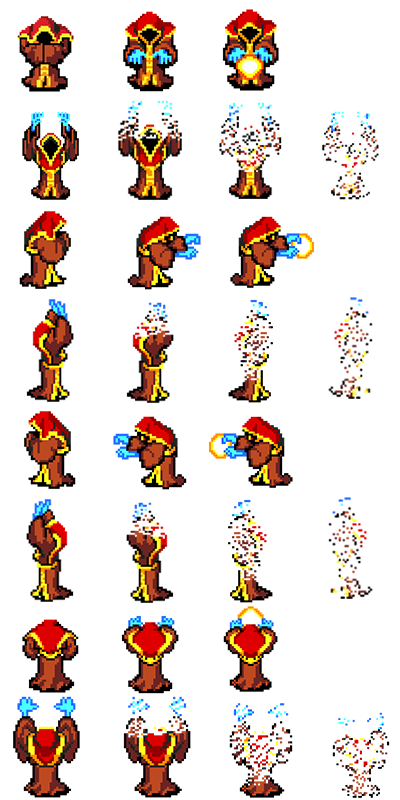
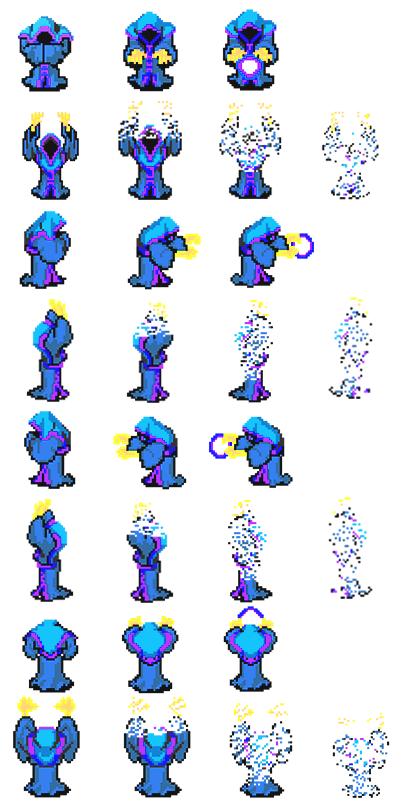
Added other sprites

diff --git a/src/renderer/render.js b/src/renderer/render.js
@@ -90,8 +90,8 @@ function update() {
 
 	for (var i = 0; i < grid.length; i++) {
 		for (var j = 0; j < grid[i].length; j++) {
-			grid[i][j].setTransform(change.x + gridSize * i, change.y + gridSize * j, gridSize/256, gridSize/256);
-			fog[i][j].setTransform(change.x + gridSize * i, change.y + gridSize * j, gridSize/256, gridSize/256);
+			grid[i][j].setTransform(change.x + gridSize * i, change.y + gridSize * j);
+			fog[i][j].setTransform(change.x + gridSize * i, change.y + gridSize * j);
 			if (!terrainVisibility[i][j]) {
 				grid[i][j].visible = false;
 				fog[i][j].visible = false;
@@ -202,27 +202,7 @@ function update() {
 				}
 			}
 			else if (actors[i].actorType === 5) {
-				if (actors[i].isAttacking) {
-					var xDiff = actors[i].attackTargetPosition.x - actors[i].x;
-					var yDiff = actors[i].attackTargetPosition.y - actors[i].y;
-					if (Math.abs(xDiff) > Math.abs(yDiff)) {
-						if (xDiff > 0 && actorSprites[i].state != 'aRight') {
-							actorSprites[i].state = 'aRight';
-							actorSprites[i].textures = actorTextures[i][2][1];
-						} else if (xDiff <= 0 && actorSprites[i].state != 'aLeft'){
-							actorSprites[i].state = 'aLeft';
-							actorSprites[i].textures = actorTextures[i][2][0];
-						}
-					} else {
-						if (yDiff > 0 && actorSprites[i].state != 'aDown') {
-							actorSprites[i].state = 'aDown';
-							actorSprites[i].textures = actorTextures[i][2][2];
-						} else if (yDiff <= 0 && actorSprites[i].state != 'aUp'){
-							actorSprites[i].state = 'aUp';
-							actorSprites[i].textures = actorTextures[i][2][3];
-						}
-					}
-				} else if (actors[i].isMoving) {
+				if (actors[i].isMoving) {
 					var xDiff = actors[i].destination.x - actors[i].x;
 					var yDiff = actors[i].destination.y - actors[i].y;
 					if (Math.abs(xDiff) > Math.abs(yDiff)) {
@@ -248,6 +228,62 @@ function update() {
 						actorSprites[i].textures = actorTextures[i][0][0];
 				}
 			}
+			else if (actors[i].actorType === 4) {
+				if (actors[i].isCarryingFlag) {
+					if (actors[i].isMoving) {
+						var xDiff = actors[i].destination.x - actors[i].x;
+						var yDiff = actors[i].destination.y - actors[i].y;
+						if (Math.abs(xDiff) > Math.abs(yDiff)) {
+							if (xDiff > 0 && actorSprites[i].state != 'mRight') {
+								actorSprites[i].state = 'mRight';
+								actorSprites[i].textures = actorTextures[i][4][1];
+							} else if (xDiff <= 0 && actorSprites[i].state != 'mLeft'){
+								actorSprites[i].state = 'mLeft';
+								actorSprites[i].textures = actorTextures[i][4][0];
+							}
+						} else {
+							if (yDiff > 0 && actorSprites[i].state != 'mDown') {
+								actorSprites[i].state = 'mDown';
+								actorSprites[i].textures = actorTextures[i][4][2];
+							} else if (yDiff <= 0 && actorSprites[i].state != 'mUp'){
+								actorSprites[i].state = 'mUp';
+								actorSprites[i].textures = actorTextures[i][4][3]
+							}
+						}
+					} else if (actorSprites[i].state != 's'){
+						actorSprites[i].state = 's';
+						if (actorTextures[i][3])
+							actorSprites[i].textures = actorTextures[i][0][0];
+					}
+				} else {
+					if (actors[i].isMoving) {
+						var xDiff = actors[i].destination.x - actors[i].x;
+						var yDiff = actors[i].destination.y - actors[i].y;
+						if (Math.abs(xDiff) > Math.abs(yDiff)) {
+							if (xDiff > 0 && actorSprites[i].state != 'mRight') {
+								actorSprites[i].state = 'mRight';
+								actorSprites[i].textures = actorTextures[i][1][1];
+							} else if (xDiff <= 0 && actorSprites[i].state != 'mLeft'){
+								actorSprites[i].state = 'mLeft';
+								actorSprites[i].textures = actorTextures[i][1][0];
+							}
+						} else {
+							if (yDiff > 0 && actorSprites[i].state != 'mDown') {
+								actorSprites[i].state = 'mDown';
+								actorSprites[i].textures = actorTextures[i][1][2];
+							} else if (yDiff <= 0 && actorSprites[i].state != 'mUp'){
+								actorSprites[i].state = 'mUp';
+								actorSprites[i].textures = actorTextures[i][1][3]
+							}
+						}
+					} else if (actorSprites[i].state != 's'){
+						actorSprites[i].state = 's';
+						if (actorTextures[i][0])
+							actorSprites[i].textures = actorTextures[i][0][0];
+					}
+				}
+			}
+
 			actorSprites[i].setTransform(actors[i].x + change.x, actors[i].y + change.y);
 
 			if (actors[i].actorType != 5 || actors[i].playerId == losState - 1 || losState === 0) {
@@ -259,6 +295,9 @@ function update() {
 					actorSprites[i].visible = true;
 				else actorSprites[i].visible = false;
 			}
+
+			if (actors[i].hp === 0) 
+				actorSprites[i].visible = false;
 		}
 	}
 	for (var i = 0; i < actorHP.length; i++) {
@@ -305,11 +344,11 @@ function update() {
 				var scale2 = 1;
 			}
 
-			towerHP[i][0].setTransform(towers[i].x + change.x - 5, towers[i].y + change.y - 12, health, 1);
-			towerHP[i][1].setTransform(towers[i].x + change.x - 5, towers[i].y + change.y - 26, scale1, 1);
-			towerHP[i][2].setTransform(towerHP[i][1].x + towerHP[i][1].width, towerHP[i][1].y, scale2, 1);
+			towerHP[i][0].setTransform(towers[i].x + change.x - 5, towers[i].y + change.y - 12, health*3, 1);
+			towerHP[i][1].setTransform(towers[i].x + change.x - 5, towers[i].y + change.y - 26, scale1*3, 1);
+			towerHP[i][2].setTransform(towerHP[i][1].x + towerHP[i][1].width, towerHP[i][1].y, scale2*3, 1);
 			towerHP[i][3].setTransform(towerHP[i][1].x + towerHP[i][1].width, towerHP[i][1].y + 3.5);
-			towerHP[i][4].setTransform(towers[i].x + change.x - 6, towers[i].y + change.y - 13);
+			towerHP[i][4].setTransform(towers[i].x + change.x - 6, towers[i].y + change.y - 13, 3, 1);
 
 			if (visibility(towers[i]) == 2) {
 				towerHP[i][0].visible = true;

diff --git a/src/renderer/state3.js b/src/renderer/state3.js
@@ -213,7 +213,7 @@ function loadTerrain() {
 			else if (terrain[i][j] === 2)
 				grid[i][j] = new PIXI.Sprite(PIXI.loader.resources.mountain.texture);
 
-			grid[i][j].setTransform(gridSize * i, gridSize * j, gridSize/256, gridSize/256); // 256 is the image's size.
+			grid[i][j].setTransform(gridSize * i, gridSize * j, gridSize/200, gridSize/200); // 256 is the image's size.
 			stage.addChild(grid[i][j]);
 		}
 	}
@@ -230,7 +230,7 @@ function loadFog() {
 		fog[i] = [];
 		for (var j = 0; j < terrain[i].length; j++) {
 			fog[i][j] = new PIXI.Sprite(PIXI.loader.resources.fog.texture);
-			fog[i][j].setTransform(gridSize * i, gridSize * j, 0.8, 0.8);
+			fog[i][j].setTransform(gridSize * i, gridSize * j);
 			stage.addChild(fog[i][j]);
 		}
 	}
@@ -325,7 +325,6 @@ function loadActors() {
 
 			actorTextures[i][0] = [];
 			actorTextures[i][1] = [];
-			actorTextures[i][2] = [];
 			actorTextures[i][3] = [];
 
 			for (var j = 0; j < 4; j++) {
@@ -357,7 +356,70 @@ function loadActors() {
 			// actorSprites[i] = new PIXI.Sprite(PIXI.loader.resources.scout.texture);
 		}
 		else if (actors[i].actorType == 4) {
-			actorSprites[i] = new PIXI.Sprite(PIXI.loader.resources.king.texture);
+			if (actors[i].playerId === 0) {
+				var base1 = PIXI.loader.resources.king1.texture;
+				var base2 = PIXI.loader.resources.kingFlag1.texture;
+			} else {
+				var base1 = PIXI.loader.resources.king2.texture;
+				var base2 = PIXI.loader.resources.king2.texture;
+			}
+
+			actorTextures[i][0] = [];
+			actorTextures[i][1] = [];
+			actorTextures[i][2] = [];
+			actorTextures[i][3] = [];
+			actorTextures[i][4] = [];
+			actorTextures[i][5] = [];
+
+			for (var j = 0; j < 4; j++) {
+				var frameTexture = new PIXI.Texture(base1);
+				frameTexture.frame = new PIXI.Rectangle(94*j, 0, 90, 95);
+				actorTextures[i][0][j] = [frameTexture, frameTexture];
+			}
+			for (var j = 0; j < 4; j++) {
+				var frameTexture = new PIXI.Texture(base2);
+				frameTexture.frame = new PIXI.Rectangle(94*j, 0, 85, 95);
+				actorTextures[i][3][j] = [frameTexture, frameTexture];
+			}
+			for (var j = 0; j < 4; j++) {
+				actorTextures[i][1][j] = [];
+				for (var k = 0; k < 3; k++) {
+					var frameTexture = new PIXI.Texture(base1);
+					frameTexture.frame = new PIXI.Rectangle(94*k, 85 + 197*j, 85, 95);
+					actorTextures[i][1][j][k] = frameTexture;
+				}
+			}
+			for (var j = 0; j < 4; j++) {
+				actorTextures[i][4][j] = [];
+				for (var k = 0; k < 3; k++) {
+					var frameTexture = new PIXI.Texture(base2);
+					frameTexture.frame = new PIXI.Rectangle(94*k, 85 + 197*j, 85, 95);
+					actorTextures[i][4][j][k] = frameTexture;
+				}
+			}
+			for (var j = 0; j < 4; j++) {
+				actorTextures[i][2][j] = [];
+				for (var k = 0; k < 3; k++) {
+					var frameTexture = new PIXI.Texture(base1);
+					frameTexture.frame = new PIXI.Rectangle(94*k, 197*(j+1), 85, 95);
+					actorTextures[i][2][j][k] = frameTexture;
+				} //speed = 0.3
+			}
+			for (var j = 0; j < 4; j++) {
+				actorTextures[i][5][j] = [];
+				for (var k = 0; k < 3; k++) {
+					var frameTexture = new PIXI.Texture(base2);
+					frameTexture.frame = new PIXI.Rectangle(94*k, 197*(j+1), 85, 95);
+					actorTextures[i][5][j][k] = frameTexture;
+				} //speed = 0.3
+			}
+			actorSprites[i] = new PIXI.extras.AnimatedSprite(actorTextures[i][0][0]);
+			actorSprites[i].animationSpeed = 0.10;
+			actorSprites[i].play();
+			actorSprites[i].state = 's';
+
+
+			// actorSprites[i] = new PIXI.Sprite(PIXI.loader.resources.king.texture);
 		}
 
 		actorSprites[i].setTransform(actors[i].x, actors[i].y);
@@ -435,7 +497,9 @@ function loadFireBalls() {
 	}
 
 	for (var i = 0; i < fireBalls.length; i++) {
-		fireBallSprites[i] = new PIXI.Sprite(PIXI.loader.resources.fireBall.texture);
+		if (fireBalls[i].playerId === 0)
+			fireBallSprites[i] = new PIXI.Sprite(PIXI.loader.resources.fireBall1.texture);
+		else fireBallSprites[i] = new PIXI.Sprite(PIXI.loader.resources.fireBall2.texture);
 
 		fireBallSprites[i].setTransform(fireBalls[i].x, fireBalls[i].y, 1, 1, fireBalls[i].rotation);
 		stage.addChild(fireBallSprites[i]);

diff --git a/src/renderer/rendererInit.js b/src/renderer/rendererInit.js
@@ -25,7 +25,7 @@ canvas.addEventListener("wheel", function(e) {
 });
 
 PIXI.loader
-	.add("menu", "./assets/menu.jpg")
+	.add("menu", "./assets/splash.png")
 	// **THE FOLLOWING TEXTURES ARE PART OF THE TEST STORY TO BE REMOVED LATER.**
 	.add("./assets/story/1.jpg")
 	.add("./assets/story/2.jpg")
@@ -42,9 +42,9 @@ PIXI.loader
 	.add("./assets/story/13.jpg")
 	.add("./assets/story/14.jpg")
 	// **..**
-	.add("forest", "./assets/forest.jpg")
-	.add("plain", "./assets/plains.jpg")
-	.add("mountain", "./assets/mountain.jpg")
+	.add("forest", "./assets/forest.png")
+	.add("plain", "./assets/Plain.png")
+	.add("mountain", "./assets/Mountains.png")
 	.add("fog", "./assets/fog.png")
 	.add("base", "./assets/base.png")
 	// .add("sword", "./assets/swordsman.png")
@@ -54,19 +54,22 @@ PIXI.loader
 	.add("wizard2", "./assets/wizard_player_2.png")
 	.add("scout1", "./assets/cavalry player 1.png")
 	.add("scout2", "./assets/cavalry player 2.png")
+	.add("king1", "./assets/king player 1.png")
+	.add("king2", "./assets/king player 2.png")
+	.add("kingFlag1", "./assets/king_with flag_player1.png")
+	.add("kingFlag2", "./assets/king_with flag_player2.png")
 	// .add("attack", "./assets/attack.png")
 	// .add("magician", "./assets/magician.png")
 	// .add("scout", "./assets/scout.png")
 	.add("king", "./assets/king.png")
-	.add("tower0", "./assets/tower0.png")
-	.add("tower1", "./assets/tower1.png")
-	.add("tower2", "./assets/tower2.png")
-	.add("flag1", "./assets/flag1.png")
-	.add("flag2", "./assets/flag2.png")
-	.add("fireBall", "./assets/fireBall.png")
+	.add("tower1", "./assets/tower_player1.png")
+	.add("tower2", "./assets/tower_player2.png")
+	.add("flag1", "./assets/flag_p1.png")
+	.add("flag2", "./assets/flag_p2.png")
+	.add("fireBall1", "./assets/ball_p1.png")
+	.add("fireBall2", "./assets/ball_p2.png")
 	.add("hp", "./assets/hp.jpg")
 	.add("border", "./assets/border.png")
 	.add("captureP1", "./assets/capture_p1.jpg")
 	.add("captureP2", "./assets/capture_p2.jpg")
-	.add("running", "./assets/running.png") // FOR TESTING ONLY. There will be no 'running' asset in the final version.
 	.load(setup);

diff --git a/src/renderer.css b/src/renderer.css
@@ -45,7 +45,6 @@ div.menu-button {
   position: fixed;
   width: 10%;
   box-shadow: 0px 3px 10px #111111, 0px 10px 50px #333333;
-  right: calc(30% - 100px);
   padding: 20px;
   background-color: #028948;
   transition: 0.1s;
@@ -59,28 +58,33 @@ div.menu-button {
 }
 
 #level1 {
-  top: calc(16% - 29px);
-  animation-delay: 2.5s;
+  top: calc(50% - 29px);
+  left: calc(20% - 100px);
+  animation-delay: 1s;
 }
 
 #level2 {
-  top: calc(33% - 29px);
-  animation-delay: 2.7s;
+  top: calc(50% - 29px);
+  left: calc(50% - 100px);
+  animation-delay: 1.2s;
 }
 
 #level3 {
   top: calc(50% - 29px);
-  animation-delay: 2.9s;
+  left: calc(80% - 100px);
+  animation-delay: 1.4s;
 }
 
 #level4 {
-  top: calc(67% - 29px);
-  animation-delay: 3.1s;
+  top: calc(80% - 29px);
+  left: calc(35% - 100px);
+  animation-delay: 1.6s;
 }
 
 #level5 {
-  top: calc(84% - 29px);
-  animation-delay: 3.3s;
+  top: calc(80% - 29px);
+  left: calc(65% - 100px);
+  animation-delay: 1.8s;
 }
 
 .button-text {

diff --git a/src/index.html b/src/index.html
@@ -10,7 +10,7 @@
 <body onload="setTimeout(fadeIn, 500)">
     <div id="slide-in">
         <div id="logo-container">
-            <div id="logo">CODE CHARACTER</div>
+            <!-- <div id="logo">CODE CHARACTER</div> -->
         </div>
     </div>
 
